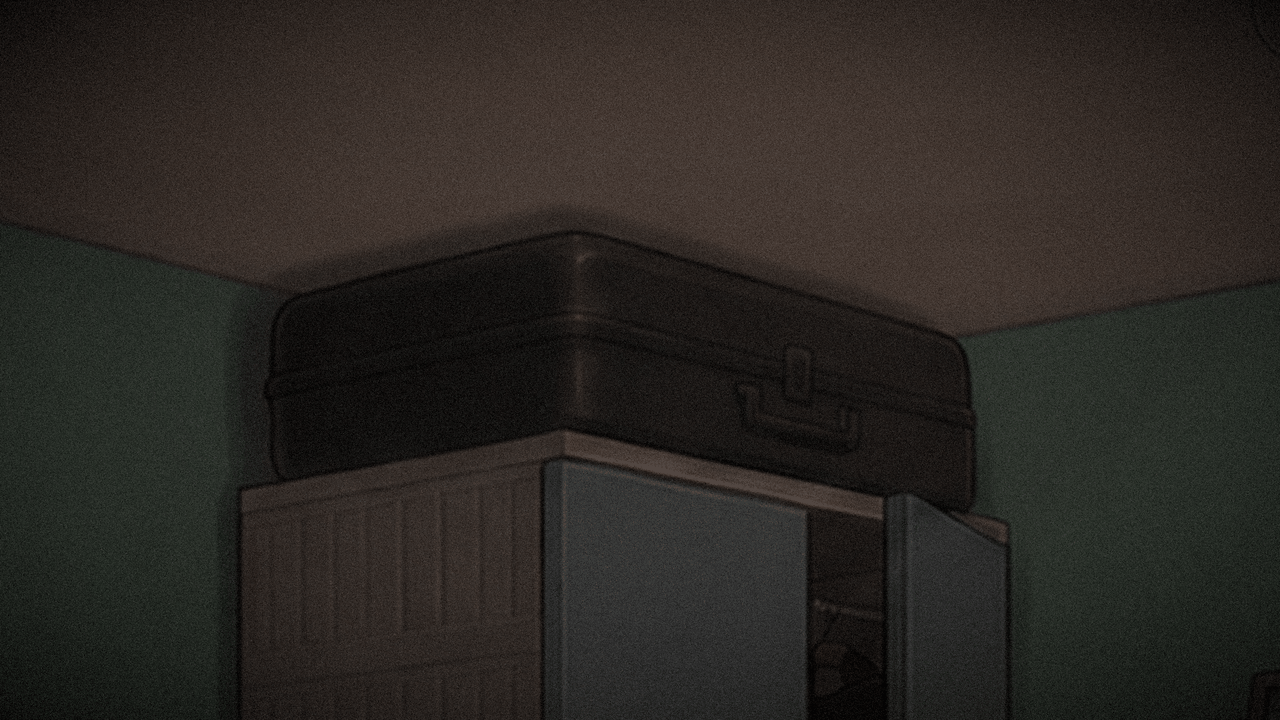
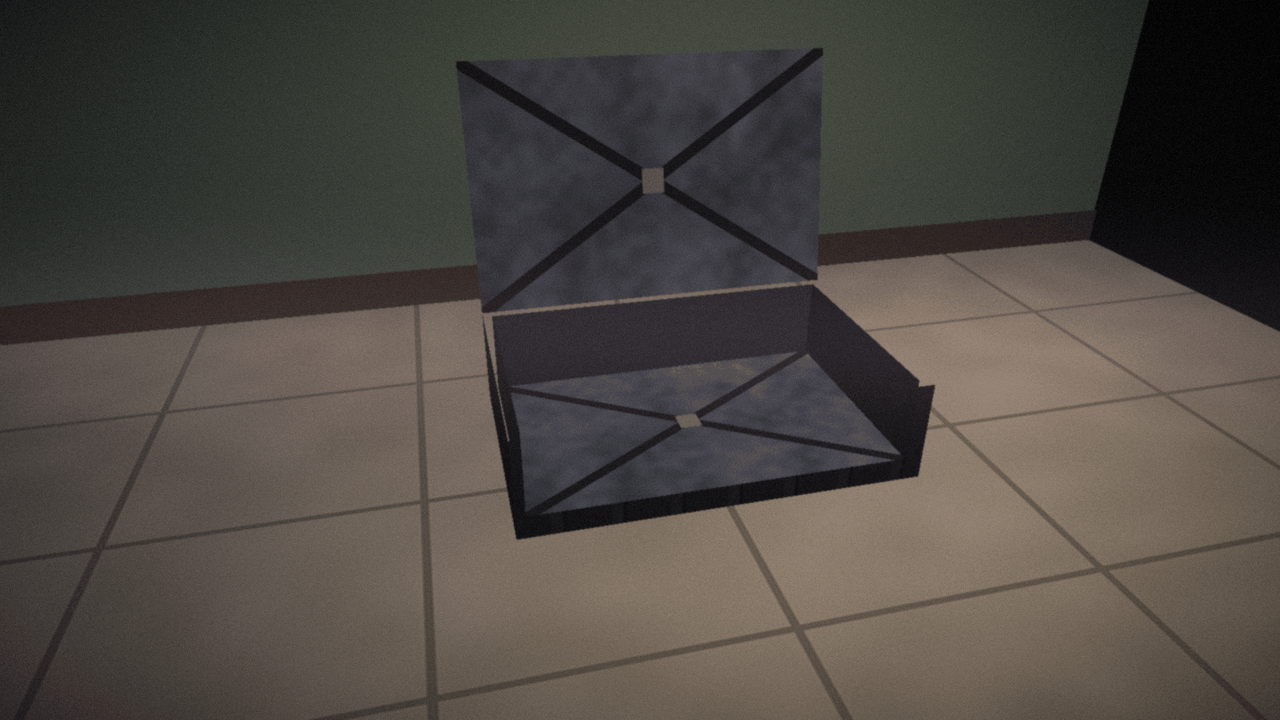
feat(art): draw the prologue booth and the suitcase in 3D
The prologue confessional (the priest's side, the lattice screen, a
candle-lit kneeling shape) and the Padala suitcase (open and empty, then
shut in the dark) are now built with scene3d like the other object shots,
with a true camera angle, perspective and light.

Claude-Session: https://claude.ai/code/session_018qtt7uTeVSGsnvQanUjafP

diff --git a/tools/object_scenes.py b/tools/object_scenes.py
@@ -10,6 +10,10 @@ police car, so they have a true camera angle, perspective and light.
   a painted ceiling, the city's lights streaking past the open windows, and Mercy on the bench.
 - tokhang_tv_news.png: a dark room at night lit only by an old television, showing the news: a
   street under police lights and a red news bar, "OPERASYON: 3 PATAY".
+- prologue_booth.png: inside the confessional, on the priest's side: dark wood, and through the
+  lattice screen a faint candle glow and the shape of someone kneeling close.
+- padala_luggage.png / padala_luggage_closed.png: a hard suitcase on the apartment floor, open and
+  empty, its lining crushed; then shut, in the dark.
 """
 
 import math
@@ -356,5 +360,159 @@ def tokhang_tv_news(size) -> Image.Image:
     canvas = scene.render(canvas)
     centre = camera.project((0.0, 0.92, 1.95))[:2]
     canvas = s3.add_glow(canvas, centre, screen_light, w / 4, 0.25)
+    return finish(canvas)
+
+
+# ---------------------------------------------------------------- the confessional
+
+
+def lattice(w: int, h: int, hole: int, bar: int, color=(84, 52, 30)) -> Image.Image:
+    """A confessional's wooden screen: diagonal bars with diamond holes you can see through."""
+    screen = Image.new("RGBA", (w, h), color + (255,))
+    holes = Image.new("L", (w, h), 255)
+    d = ImageDraw.Draw(holes)
+    step = hole + bar
+    for cy in range(-step, h + step, step):
+        for cx in range(-step, w + step, step):
+            for ox, oy in ((0, 0), (step // 2, step // 2)):
+                x, y = cx + ox, cy + oy
+                d.polygon([(x, y - hole / 2), (x + hole / 2, y), (x, y + hole / 2), (x - hole / 2, y)], fill=0)
+    screen.putalpha(holes)
+    # The bars are rounded wood: lighter along their middles.
+    shade = noise(w, h, 30, 41)
+    rgb = np.asarray(screen).astype(np.float32)
+    rgb[..., :3] *= (0.85 + 0.3 * shade)[..., None]
+    return Image.fromarray(np.clip(rgb, 0, 255).astype(np.uint8), "RGBA")
+
+
+def prologue_booth(size, figure: Image.Image) -> Image.Image:
+    w, h = size
+    camera = s3.Camera((0.0, 1.1, -0.45), 0.0, 0.0, 50.0, size)
+    scene = s3.Scene(camera, ambient=(34, 29, 26), sky_dir=(0.0, 1.0, 0.0))
+    panel = wood(600, 900, 51, base=(84, 52, 32))
+    # The priest's side: wooden walls close on either hand, and the wall with the screen ahead.
+    for x in (-0.5, 0.5):
+        scene.face([(x, 2.2, -0.6), (x, 2.2, 0.32), (x, 0.0, 0.32), (x, 0.0, -0.6)][:: (-1 if x > 0 else 1)], (84, 52, 32), texture=panel, layer=1, two_sided=True)
+    for y0, y1 in ((0.0, 0.86), (1.46, 2.2)):
+        scene.face([(-0.5, y1, 0.32), (0.5, y1, 0.32), (0.5, y0, 0.32), (-0.5, y0, 0.32)], (84, 52, 32), texture=panel, layer=1)
+    for x0, x1 in ((-0.5, -0.24), (0.24, 0.5)):
+        scene.face([(x0, 1.46, 0.32), (x1, 1.46, 0.32), (x1, 0.86, 0.32), (x0, 0.86, 0.32)], (84, 52, 32), texture=panel, layer=1)
+    # The screen itself, a frame around it, and a small shelf below.
+    scene.face([(-0.24, 1.46, 0.315), (0.24, 1.46, 0.315), (0.24, 0.86, 0.315), (-0.24, 0.86, 0.315)], (84, 52, 32),
+               texture=lattice(480, 600, 26, 9), layer=2)
+    for x0, x1, y0, y1 in ((-0.27, -0.24, 0.83, 1.49), (0.24, 0.27, 0.83, 1.49), (-0.27, 0.27, 1.46, 1.49), (-0.27, 0.27, 0.83, 0.86)):
+        scene.face([(x0, y1, 0.31), (x1, y1, 0.31), (x1, y0, 0.31), (x0, y0, 0.31)], (104, 68, 40), layer=3)
+    scene.box(-0.3, 0.3, 0.8, 0.83, 0.18, 0.32, (104, 68, 40), layer=3)
+    # Beyond the screen: the penitent's side, lit by a candle, and someone kneeling close.
+    scene.face([(-0.8, 2.2, 1.4), (0.8, 2.2, 1.4), (0.8, 0.0, 1.4), (-0.8, 0.0, 1.4)], (90, 60, 40), texture=wood(400, 500, 52, base=(90, 60, 40)), layer=0)
+    shape = Image.new("RGBA", figure.size, (8, 6, 6, 255))
+    shape.putalpha(figure.getchannel("A").filter(ImageFilter.GaussianBlur(3)))
+    tall = 1.75
+    half = tall * shape.width / shape.height / 2
+    # Kneeling close to the screen: only the head and shoulders rise into the window.
+    low = -0.58
+    scene.face([(-0.02 - half, low + tall, 0.6), (-0.02 + half, low + tall, 0.6), (-0.02 + half, low, 0.6), (-0.02 - half, low, 0.6)],
+               (8, 6, 6), texture=shape, layer=0, emissive=True)
+    scene.light((0.35, 1.0, 1.1), (255, 170, 90), 1.2)
+    scene.light((0.0, 1.15, 0.0), (255, 170, 90), 0.25)
+    canvas = Image.new("RGBA", size, (6, 5, 5, 255))
+    canvas = scene.render(canvas)
+    return finish(canvas)
+
+
+# ---------------------------------------------------------------- the suitcase
+
+
+def shell_texture(w: int, h: int, seam: float = 0.0) -> Image.Image:
+    """A hard suitcase's shell: dark grey plastic with raised ribs and a soft sheen."""
+    shell = Image.new("RGBA", (w, h), (58, 60, 66, 255))
+    d = ImageDraw.Draw(shell)
+    for x in range(int(w * 0.08), w, int(w * 0.14)):
+        d.rectangle((x, 0, x + int(w * 0.03), h), fill=(72, 74, 80, 255))
+        d.line((x + int(w * 0.03), 0, x + int(w * 0.03), h), fill=(40, 42, 46, 255), width=3)
+    if seam:
+        # Where the two shells meet: a dark zip with a light edge above it.
+        y = int(h * seam)
+        d.rectangle((0, y - 3, w, y + 5), fill=(26, 26, 30, 255))
+        d.line((0, y - 4, w, y - 4), fill=(110, 112, 118, 255), width=2)
+    return shell.filter(ImageFilter.GaussianBlur(1.2))
+
+
+def lining_texture(w: int, h: int) -> Image.Image:
+    """The inside: grey-blue cloth crushed into folds, with two crossed straps."""
+    folds = noise(w, h, 60, 61) * 0.6 + noise(w, h, 18, 62) * 0.4
+    rgb = np.stack([70 + folds * 50, 78 + folds * 52, 96 + folds * 56], axis=-1)
+    lining = Image.fromarray(np.clip(rgb, 0, 255).astype(np.uint8)).convert("RGBA")
+    d = ImageDraw.Draw(lining)
+    strap = int(min(w, h) * 0.05)
+    d.line((0, 0, w, h), fill=(40, 42, 50, 255), width=strap)
+    d.line((0, h, w, 0), fill=(40, 42, 50, 255), width=strap)
+    d.rectangle((w * 0.47, h * 0.45, w * 0.53, h * 0.55), fill=(150, 150, 156, 255))
+    return lining
+
+
+def floor_tiles(w: int, h: int) -> Image.Image:
+    base = noise(w, h, 30, 71)
+    rgb = np.stack([196 + base * 16, 188 + base * 16, 172 + base * 16], axis=-1)
+    tiles = Image.fromarray(np.clip(rgb, 0, 255).astype(np.uint8)).convert("RGBA")
+    d = ImageDraw.Draw(tiles)
+    step = w // 6
+    for i in range(0, w + 1, step):
+        d.line((i, 0, i, h), fill=(150, 144, 132, 255), width=4)
+    for j in range(0, h + 1, step):
+        d.line((0, j, w, j), fill=(150, 144, 132, 255), width=4)
+    return tiles
+
+
+def _turn_about_x(point, hinge_y: float, hinge_z: float, degrees: float):
+    """A point of the lid, swung open about the hinge along the suitcase's back edge."""
+    x, y, z = point
+    a = math.radians(degrees)
+    dy, dz = y - hinge_y, z - hinge_z
+    return (x, hinge_y + dy * math.cos(a) - dz * math.sin(a), hinge_z + dy * math.sin(a) + dz * math.cos(a))
+
+
+def padala_luggage(size, closed: bool = False) -> Image.Image:
+    w, h = size
+    camera = s3.Camera((-0.45, 0.95, -0.2), 14.0, -28.0, 46.0, size)
+    scene = s3.Scene(camera, ambient=(70, 72, 84) if not closed else (24, 26, 34), sky_dir=(-0.3, 1.0, -0.3))
+    scene.face([(-1.6, 0.0, 2.0), (1.6, 0.0, 2.0), (1.6, 0.0, 0.2), (-1.6, 0.0, 0.2)], (196, 188, 172), texture=floor_tiles(900, 600), layer=0)
+    scene.face([(-1.6, 1.6, 2.0), (1.6, 1.6, 2.0), (1.6, 0.0, 2.0), (-1.6, 0.0, 2.0)], (150, 176, 160), layer=0)
+    scene.face([(-1.6, 0.1, 1.99), (1.6, 0.1, 1.99), (1.6, 0.0, 1.99), (-1.6, 0.0, 1.99)], (110, 96, 84), layer=0)
+    x0, x1, z0, z1, top = -0.38, 0.38, 0.95, 1.45, 0.2 if not closed else 0.26
+    shell, lining = shell_texture(500, 200, 0.5 if closed else 0.0), lining_texture(600, 400)
+    # The shell's outside walls, ribbed.
+    scene.face([(x0, top, z0), (x1, top, z0), (x1, 0.0, z0), (x0, 0.0, z0)], (58, 60, 66), texture=shell, layer=1)
+    scene.face([(x1, top, z1), (x0, top, z1), (x0, 0.0, z1), (x1, 0.0, z1)], (58, 60, 66), texture=shell, layer=1)
+    scene.face([(x0, top, z1), (x0, top, z0), (x0, 0.0, z0), (x0, 0.0, z1)], (58, 60, 66), texture=shell, layer=1)
+    scene.face([(x1, top, z0), (x1, top, z1), (x1, 0.0, z1), (x1, 0.0, z0)], (58, 60, 66), texture=shell, layer=1)
+    if closed:
+        scene.face([(x0, top, z1), (x1, top, z1), (x1, top, z0), (x0, top, z0)], (58, 60, 66), texture=shell_texture(500, 340), layer=1)
+        # The handle and two latches along the front.
+        scene.box(-0.12, 0.12, top * 0.66, top * 0.82, z0 - 0.05, z0 - 0.03, (24, 24, 28), layer=2)
+        for x in (-0.12, 0.1):
+            scene.box(x, x + 0.02, top * 0.62, top * 0.82, z0 - 0.05, z0, (24, 24, 28), layer=2)
+        for x in (-0.24, 0.24):
+            scene.box(x - 0.025, x + 0.025, top * 0.62, top * 0.8, z0 - 0.015, z0 - 0.002, (170, 170, 176), layer=2)
+        scene.light((-1.2, 0.3, 1.2), (180, 200, 255), 0.9)
+    else:
+        # Inside: the crushed lining, the inner walls, and the lid standing open behind it.
+        inset = 0.02
+        scene.face([(x0 + inset, 0.03, z1 - inset), (x1 - inset, 0.03, z1 - inset), (x1 - inset, 0.03, z0 + inset), (x0 + inset, 0.03, z0 + inset)],
+                   (80, 88, 106), texture=lining, layer=2)
+        for points in ([(x0 + inset, top, z1 - inset), (x1 - inset, top, z1 - inset), (x1 - inset, 0.03, z1 - inset), (x0 + inset, 0.03, z1 - inset)],
+                       [(x1 - inset, top, z0 + inset), (x1 - inset, top, z1 - inset), (x1 - inset, 0.03, z1 - inset), (x1 - inset, 0.03, z0 + inset)],
+                       [(x0 + inset, top, z1 - inset), (x0 + inset, top, z0 + inset), (x0 + inset, 0.03, z0 + inset), (x0 + inset, 0.03, z1 - inset)]):
+            scene.face(points, (66, 72, 88), layer=2, two_sided=True)
+        lid = [_turn_about_x(p, top, z1, 100.0) for p in [(x0, top, z0), (x1, top, z0), (x1, top, z1), (x0, top, z1)]]
+        scene.face([lid[3], lid[2], lid[1], lid[0]][::-1], (80, 88, 106), texture=lining_texture(600, 400), layer=1, two_sided=True)
+        scene.light((0.4, 1.6, 0.6), (255, 220, 170), 1.6)
+    canvas = Image.new("RGBA", size, (10, 10, 12, 255))
+    canvas = scene.render(canvas)
+    if closed:
+        # One cold strip of light from under the door across the floor and the case.
+        strip = Image.new("RGBA", size, (0, 0, 0, 0))
+        ImageDraw.Draw(strip).polygon([(0, h * 0.72), (w, h * 0.5), (w, h * 0.56), (0, h * 0.8)], fill=(150, 170, 230, 70))
+        canvas = s3.add_light_layer(canvas, strip, w / 80)
     return finish(canvas)
 

diff --git a/tools/draw_placeholders.py b/tools/draw_placeholders.py
@@ -340,11 +340,6 @@ def padala_gloria_mercy() -> Image.Image:
     return vignette(grade(c, 1.0, 0.95, (255, 225, 190), 0.25), 0.4)
 
 
-def padala_luggage(dark: float = 0.55) -> Image.Image:
-    c = background("apartment_room", crop=(0.36, 0.06, 0.26, 0.26))
-    return grain(vignette(grade(c, dark, 0.5, (190, 150, 140), 0.4), 0.8), 8)
-
-
 def padala_beaten() -> Image.Image:
     c = background("apartment_room", blur=4)
     place(c, tinted(person("mercy", True), (160, 110, 110), 0.45), 0.35, 1.25, 0.95, shadow=False)
@@ -532,13 +527,6 @@ def padala_collar() -> Image.Image:
     return vignette(c, 0.6)
 
 
-def prologue_booth() -> Image.Image:
-    c = background("confessional", crop=(0.05, 0.05, 0.55, 0.6))
-    c = grade(c, 0.45, 0.55)
-    c = glow(c, (0.5, 0.4), (120, 80, 40), 0.25, 0.4)
-    return grain(vignette(grille(c, color=(10, 6, 4, 210)), 0.7), 7)
-
-
 def true_morning_family() -> Image.Image:
     c = background("public_market", blur=3)
     place(c, person("peter", True), 0.36, 1.03, 0.84)
@@ -580,8 +568,8 @@ SHOTS = {
     "kumpisal_eli_forgiveness.png": kumpisal_eli_forgiveness,
     "kumpisal_eli_sacrifice.png": kumpisal_eli_sacrifice,
     "padala_gloria_mercy.png": padala_gloria_mercy,
-    "padala_luggage.png": padala_luggage,
-    "padala_luggage_closed.png": lambda: padala_luggage(0.3),
+    "padala_luggage.png": lambda: object_scenes.padala_luggage(SIZE),
+    "padala_luggage_closed.png": lambda: object_scenes.padala_luggage(SIZE, closed=True),
     "padala_beaten.png": padala_beaten,
     "padala_dressing.png": padala_dressing,
     "padala_eyes_widen.png": padala_eyes_widen,
@@ -602,7 +590,7 @@ SHOTS = {
     "padala_tanod.png": padala_tanod,
     "padala_hide_dawn.png": padala_hide_dawn,
     "padala_eli_unlocks.png": padala_eli_unlocks,
-    "prologue_booth.png": prologue_booth,
+    "prologue_booth.png": lambda: object_scenes.prologue_booth(SIZE, person("eli")),
     "padala_collar.png": padala_collar,
     "true_morning_family.png": true_morning_family,
     "true_morning_kulas.png": true_morning_kulas,

diff --git a/HANDOFF.md b/HANDOFF.md
@@ -409,7 +409,7 @@ Each is a tagged release on `main`. `git log --oneline` and `git tag -l` show th
       (`alaala.json` "hint"); Kumpisal's opening gains one line per timeline (bible section 8).
     - **G. Playtest** with the checklist (revelation timing, causality, replay motivation). The
       user's to run.
-    - **Art, object shots in 3D** (DONE for four): `tools/object_scenes.py` draws
+    - **Art, object shots in 3D** (DONE for six): `tools/object_scenes.py` draws
       `tokhang_tv_news` (an old set in a dark room; on screen the police street from
       street_scene, a red bar "OPERASYON: 3 PATAY", LIVE, scan lines), `padala_jeep` (inside a
       jeepney from the back: red benches, chrome rails, painted ceiling, city lights streaking past
@@ -418,7 +418,11 @@ Each is a tagged release on `main`. `git log --oneline` and `git tag -l` show th
       "Pagbibitiw" letter, and a cold coffee) and `true_visiting` (a visiting booth from the
       visitor's chair: counter, green partition, glass with reflections, a round speaking grille;
       Father Eli behind it in an inmate's orange shirt, made by recolouring his black clothes,
-      `in_jail_orange`). Still stand-ins for real paintings.
+      `in_jail_orange`), `prologue_booth` (the priest's side of the confessional: dark wood, a
+      lattice screen, a faint candle glow and the blurred shape of someone kneeling close) and
+      `padala_luggage` / `padala_luggage_closed` (a hard suitcase on the tiled floor, open and
+      empty with its lining crushed; then shut in the dark, a cold strip of light on its edge).
+      Still stand-ins for real paintings.
     - **Art in parallel:** object shots in 3D (jeepney, badge, visiting booth, TV news); ~10 key
       character shots need an artist (or Higgsfield if the user allows).
     **Art:** paint the cutscenes for real (user or artist), most important first: the reveals

diff --git a/CLAUDE.md b/CLAUDE.md
@@ -61,7 +61,7 @@ picture. Delete the temporary script afterwards. The `--headless` runs print RID
 | `story/*.json` | All story text, conversations and choices. `timelines.json` is the timelines chart: cards, sections and realities. `alaala.json` lists the Alaala (memories) and the endings that give them; `prologue.json` is the confession that opens every run |
 | `docs/STORY_BIBLE.md` | The design (the Alaala mechanic, rules R1-R8), the hidden truth, and every line of the script. It wins over the story files when they disagree |
 | `assets/` | Art (see `assets/README.md`), `music/`, `sounds/`, `fonts/Lora.ttf` (and DejaVu Sans Mono for the developer tools), `videos/main_screen.ogv` |
-| `tools/` | `next_version.sh`, `compose_music.py`, `compose_sounds.py`, `draw_props.py`, `draw_placeholders.py` (with `scene3d.py`, a tiny 3D drawing kit lit pixel by pixel, `street_scene.py`, the night street with the police car, and `object_scenes.py`: the TV news, the jeepney, Batista's badge, the visiting booth), `cloud_setup.sh`. Has a `.gdignore`, so Godot skips it |
+| `tools/` | `next_version.sh`, `compose_music.py`, `compose_sounds.py`, `draw_props.py`, `draw_placeholders.py` (with `scene3d.py`, a tiny 3D drawing kit lit pixel by pixel, `street_scene.py`, the night street with the police car, and `object_scenes.py`: the TV news, the jeepney, Batista's badge, the visiting booth, the prologue confessional, the suitcase), `cloud_setup.sh`. Has a `.gdignore`, so Godot skips it |
 | `tests/smoke_test.gd` | Headless smoke test |
 | `tests/playthrough.gd` | Plays a fresh save through 12 runs that reach every ending, the true ending second (about a minute). Set `PLAYTHROUGH_TRANSCRIPT=<file>` to write out every line and choice. Run it after any story or scene change |
 
